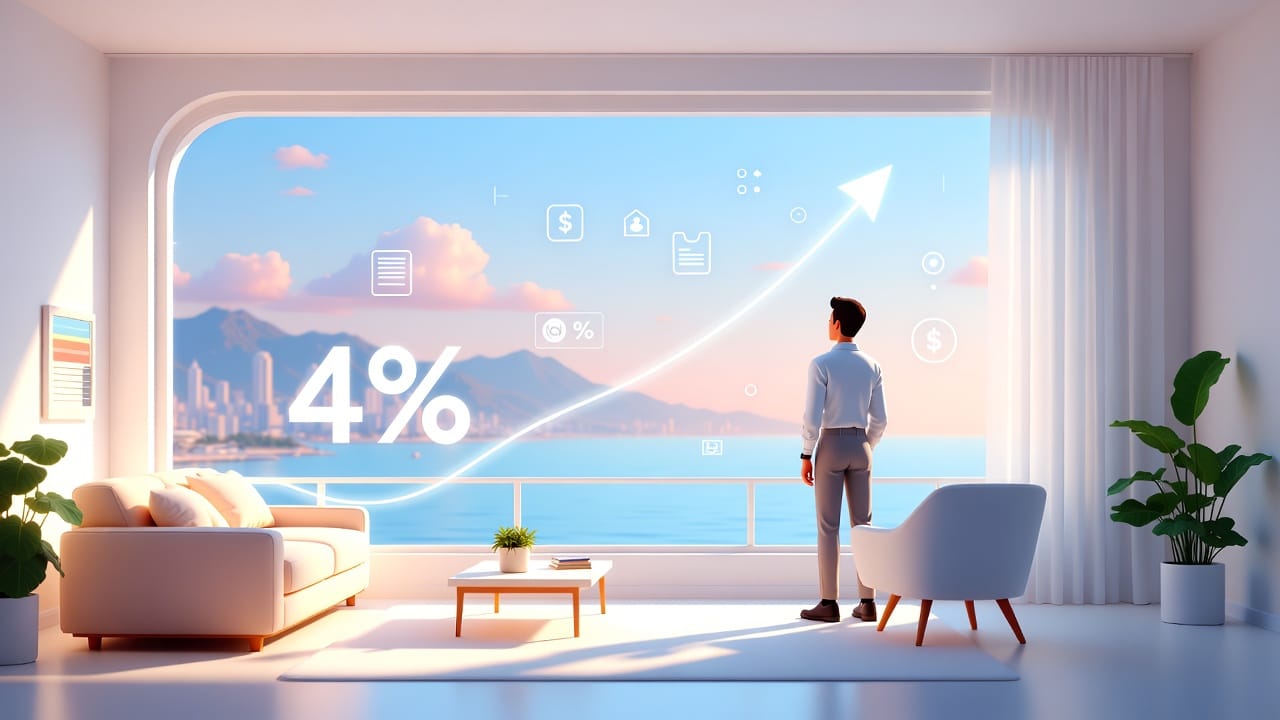
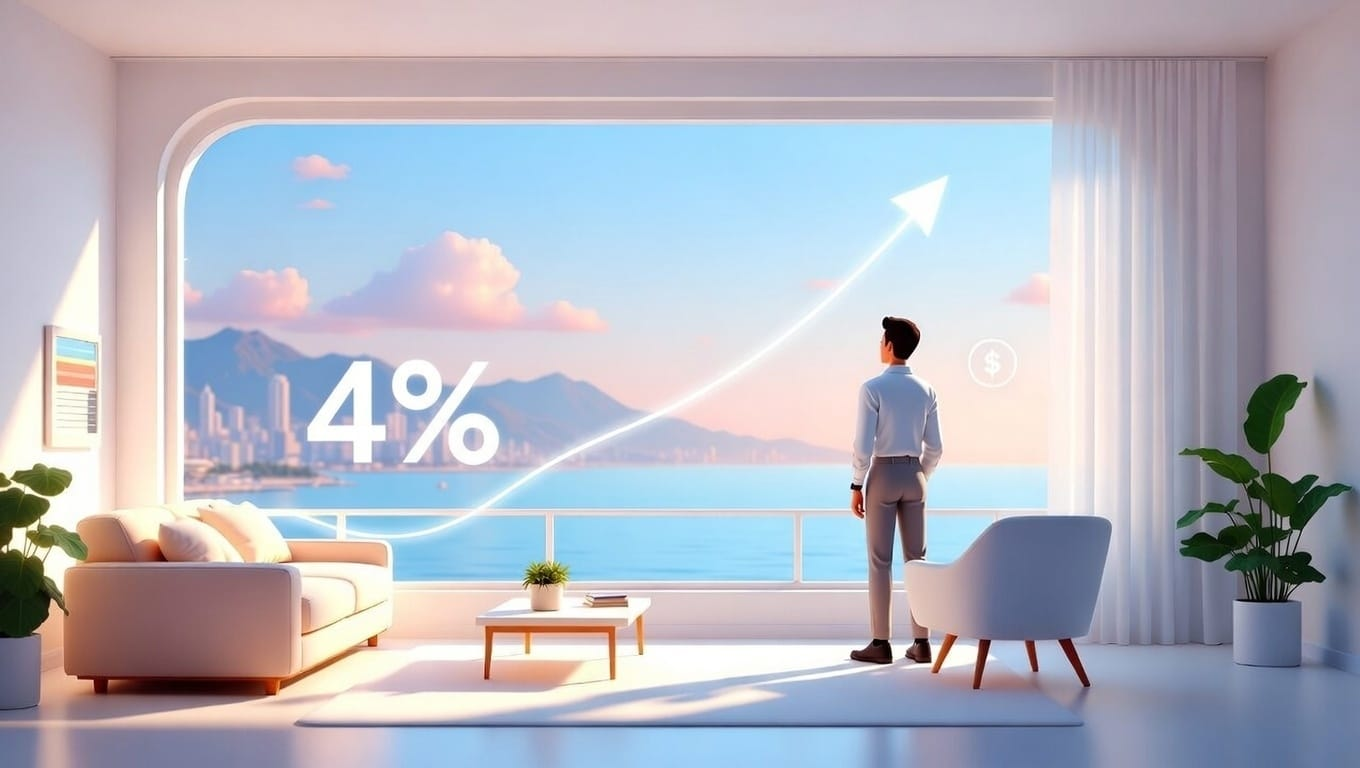
Drobné úpravy od Antigravity

diff --git a/pages/blog/[slug].js b/pages/blog/[slug].js
@@ -13,6 +13,7 @@ const content = {
   },
   'compound-interest': {
     title: 'Compound Interest: Let Your Money Work for You',
+    image: '/blog_pictures/compound-interest.png',
     body: `Compound interest is the interest on a loan or deposit calculated based on both the initial principal and the accumulated interest from previous periods.
     
     Profiro lets you visualize this snowball effect. See how small contributions today can turn into massive wealth over decades.`
@@ -30,8 +31,9 @@ const content = {
 
 export default function Post() {
   const { query } = useRouter()
-  const slug = query.slug
-  const post = content[slug] || { title: 'Post not found', body: 'This post does not exist yet.' }
+  // Ensure slug is a string and trim whitespace just in case
+  const slug = typeof query.slug === 'string' ? query.slug.trim() : query.slug
+  const post = content[slug] || { title: 'Post not found', body: 'This post does not exist yet.', image: null }
 
   return (
     <>
@@ -42,11 +44,12 @@ export default function Post() {
       <Nav />
       <main className="container" style={{ padding: "40px 20px" }}>
         {post.image && (
-          <div style={{ marginBottom: "32px", borderRadius: "16px", overflow: "hidden" }}>
+          <div key={post.image} style={{ marginBottom: "32px", borderRadius: "16px", overflow: "hidden", lineHeight: 0 }}>
+            {/* Using standard img tag with explicitly ensure display block */}
             <img
               src={post.image}
               alt={post.title}
-              style={{ width: "100%", height: "auto", display: "block" }}
+              style={{ width: "100%", height: "auto", display: "block", objectFit: "cover" }}
             />
           </div>
         )}
@@ -59,7 +62,8 @@ export default function Post() {
         </div>
       </main>
 
-      {/* Footer with forced full-width hack in case of parent constraints */}
+      {/* Footer - attempting natural full flow with negative margin breakout as fallback if needed, 
+          but primarily relying on global CSS adjustments */}
       <footer className="footer footer-force-full">
         <div className="container footer-inner">
           <div>

diff --git a/styles/globals.css b/styles/globals.css
@@ -507,11 +507,9 @@ section[style*="var(--bg-surface)"] .feature-card {
 /* Force full width breakout for sticky situations or constrained parents */
 .footer-force-full {
   width: 100vw;
-  position: relative;
-  left: 50%;
-  right: 50%;
-  margin-left: -50vw;
-  margin-right: -50vw;
+  margin-left: calc(50% - 50vw);
+  margin-right: calc(50% - 50vw);
+  max-width: 100vw;
 }
 
 .footer-links a {

diff --git a/pages/blog/index.js b/pages/blog/index.js
@@ -13,6 +13,7 @@ const posts = [
   {
     slug: "compound-interest",
     title: "Compound Interest: Let Your Money Work for You",
+    image: "/blog_pictures/compound-interest.png",
     excerpt: "Discover the snowball effect that turns small amounts into great wealth over time.",
     date: "2025-10-20",
   },
